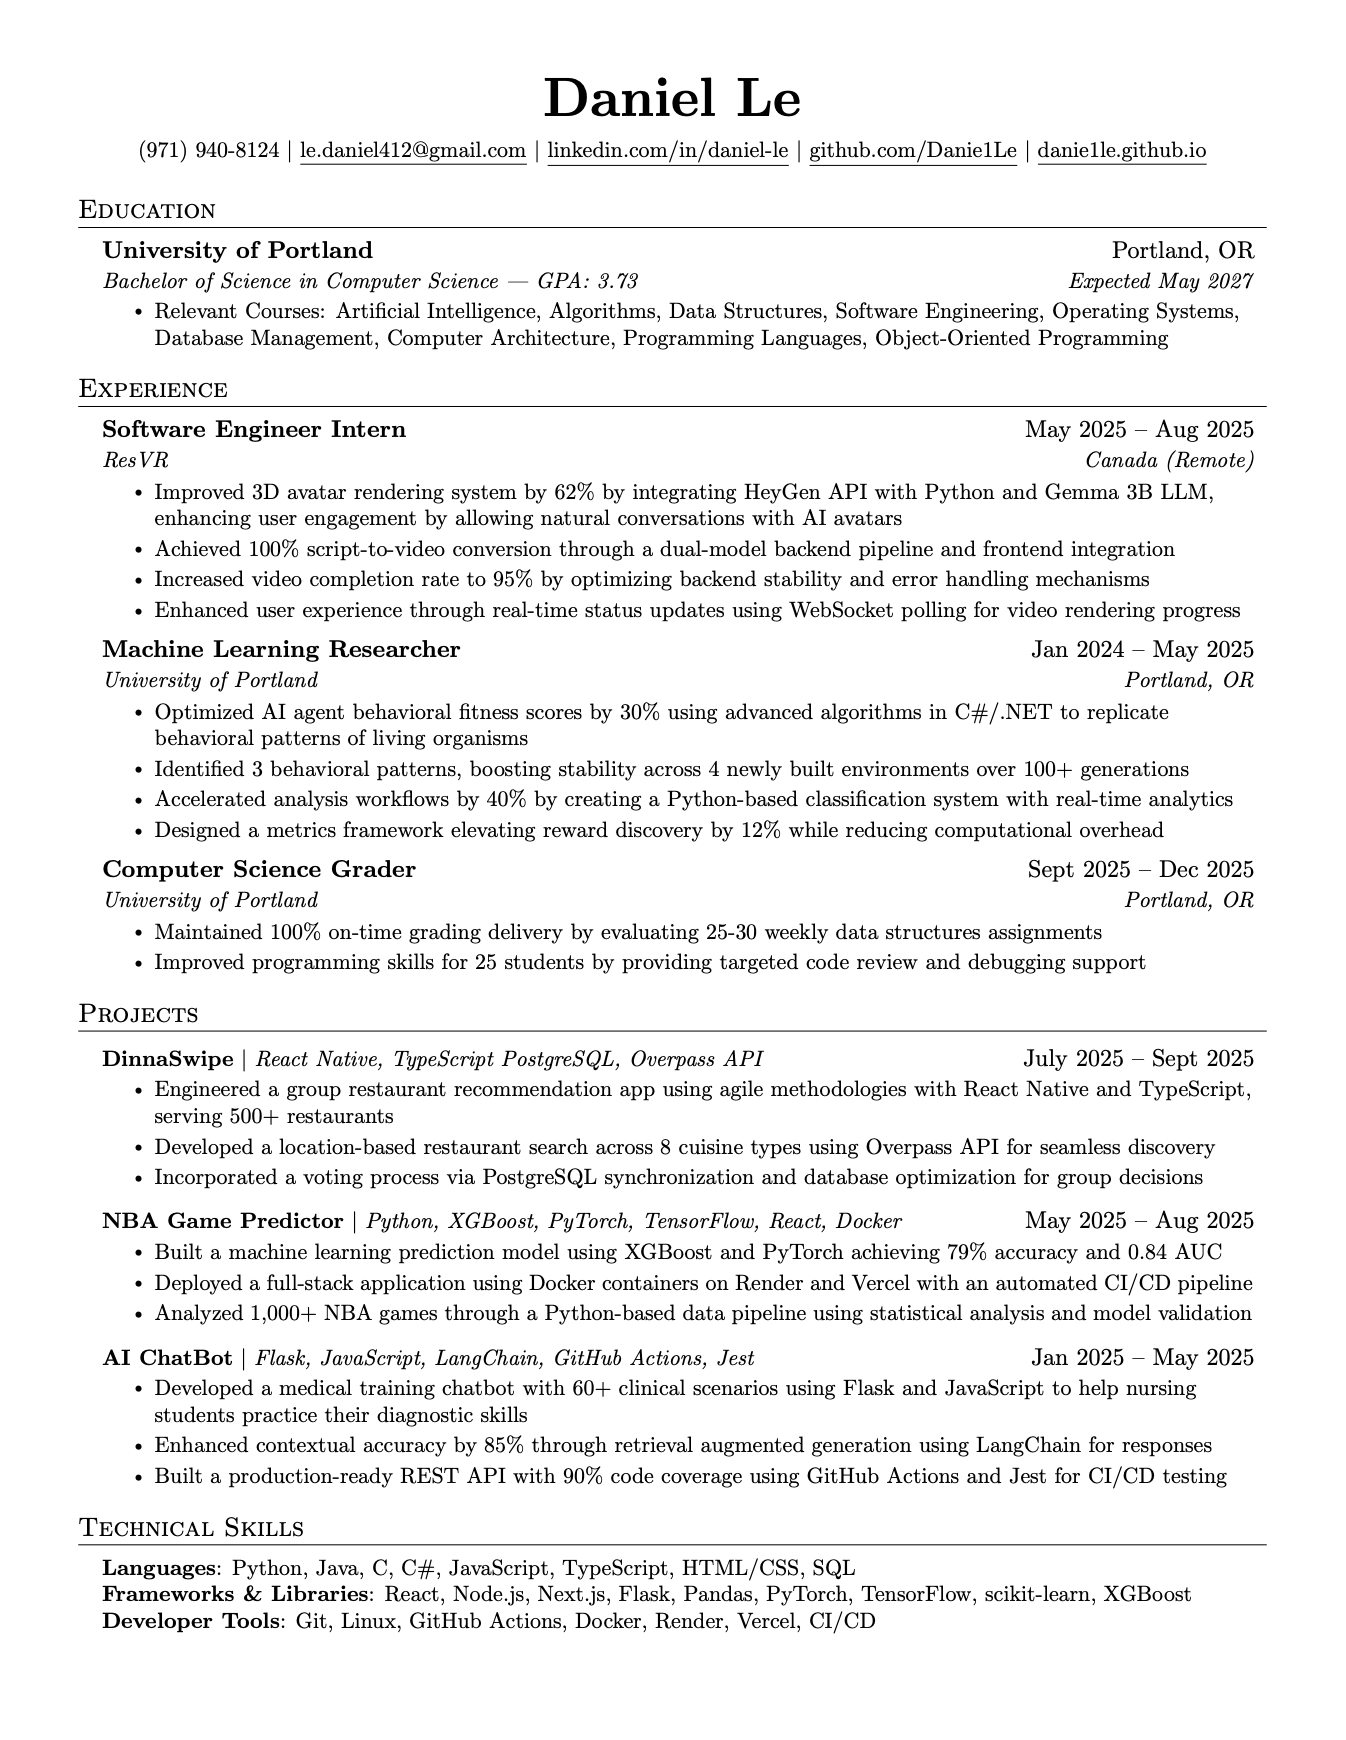
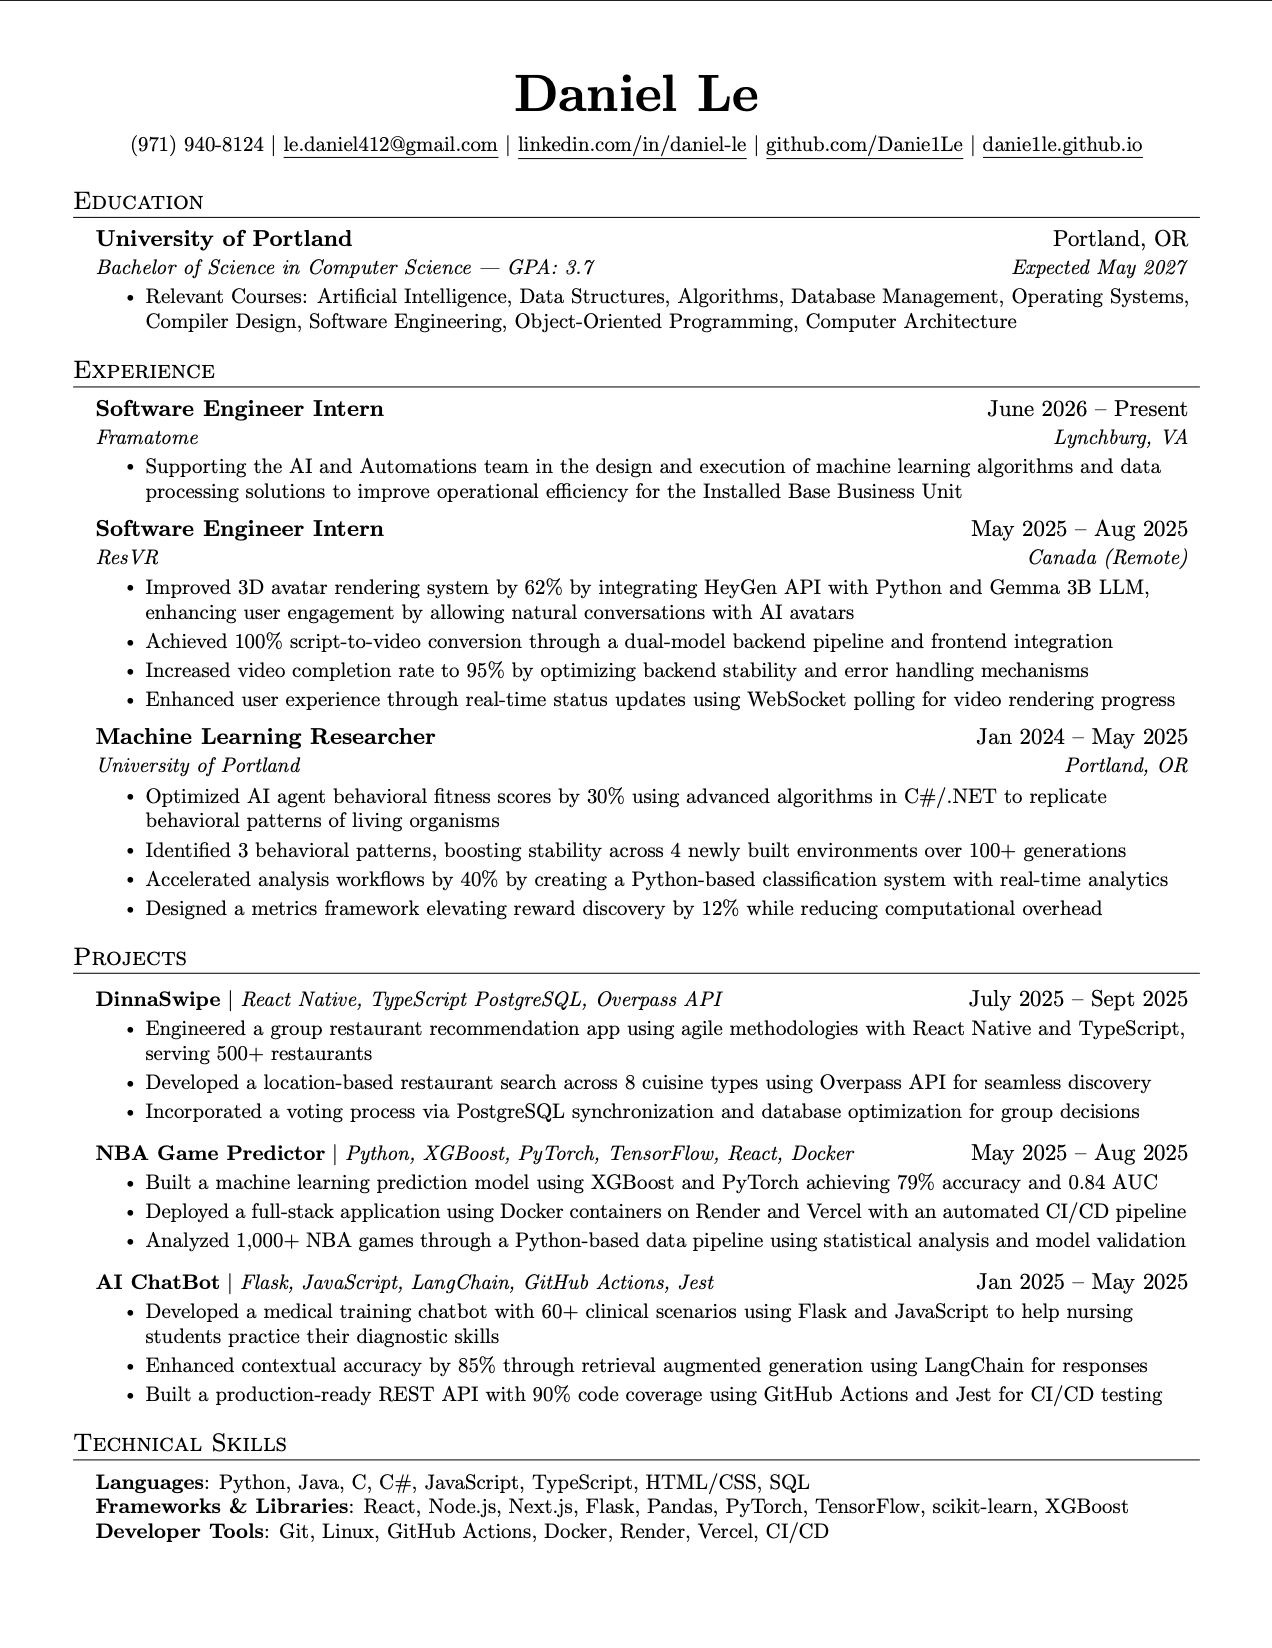
update resume and experience

Changed region(s): [[0.0613, 0.0309, 0.9505, 0.9593]]

diff --git a/lib/data.ts b/lib/data.ts
@@ -29,7 +29,7 @@ export const jobs: Job[] = [
     period: "June 2026 - Present",
     location: "Lynchburg, VA",
     description: "AI & Automations Team",
-    details: ["To be updated"],
+    details: ["Supporting the AI and Automations team in the design and execution of machine learning algorithms and data processing solutions to improve operational efficiency for the Installed Base Business Unit"],
     skills: [],
     side: "left",
     current: true,
